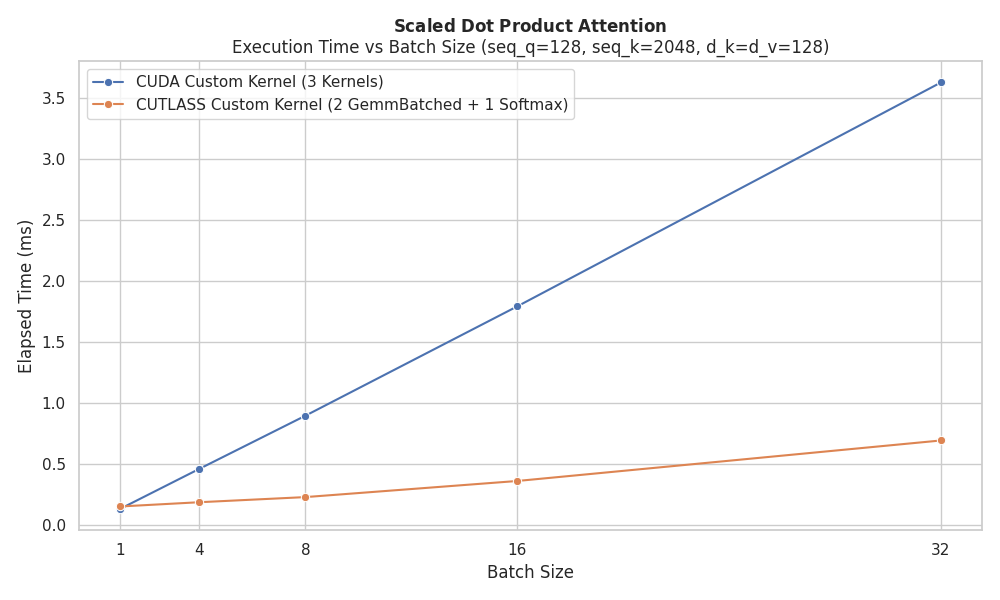
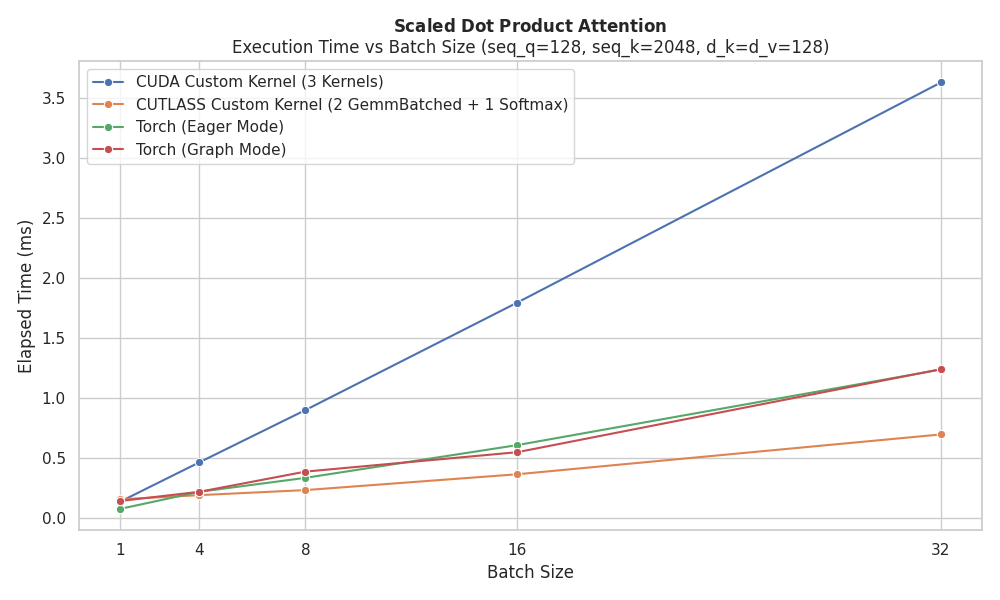
benchmark

diff --git a/src/tests/benchmarking.py b/src/tests/benchmarking.py
@@ -2,13 +2,15 @@ import seaborn as sns
 import matplotlib.pyplot as plt
 import pandas as pd
 
-'''
-# 建立資料
+
+'''# 建立資料
 data = {
-    'batch': [1, 4, 8, 16, 32] * 2,
+    'batch': [1, 4, 8, 16, 32] * 4,
     'time_ms': [0.133, 0.462, 0.897, 1.793, 3.628, 
-                0.153, 0.188, 0.23, 0.362, 0.694],
-    'method': ['CUDA Custom Kernel (3 Kernels)'] * 5 + ['CUTLASS Custom Kernel (2 GemmBatched + 1 Softmax)'] * 5
+                0.153, 0.188, 0.23, 0.362, 0.694,
+                0.073, 0.216, 0.332, 0.605, 1.235,
+                0.139, 0.216, 0.384, 0.546, 1.238],
+    'method': ['CUDA Custom Kernel (3 Kernels)'] * 5 + ['CUTLASS Custom Kernel (2 GemmBatched + 1 Softmax)'] * 5 + ['Torch (Eager Mode)'] * 5 + ['Torch (Graph Mode)'] * 5
 }
 
 df = pd.DataFrame(data)
@@ -29,13 +31,15 @@ plt.legend(title=None)
 
 plt.show()'''
 
-# 建立資料
+'''# 建立資料
 seq_shapes = ['64x512', '128x1024', '128x2048', '256x4096', '512x8192']
 data = {
-    'seq_shape': seq_shapes * 2,
+    'seq_shape': seq_shapes * 4,
     'time_ms': [0.127, 0.462, 0.897, 3.456, 12.621,
-                0.071, 0.128, 0.23, 0.604, 2.048],
-    'method': ['CUDA Custom Kernel (3 Kernels)'] * 5 + ['CUTLASS Custom Kernel (2 GemmBatched + 1 Softmax)'] * 5
+                0.071, 0.128, 0.23, 0.604, 2.048,
+                0.078, 0.151, 0.358, 0.976, 3.797,
+                0.115, 0.160, 0.366, 0.98, 3.812],
+    'method': ['CUDA Custom Kernel (3 Kernels)'] * 5 + ['CUTLASS Custom Kernel (2 GemmBatched + 1 Softmax)'] * 5 + ['Torch (Eager Mode)'] * 5 + ['Torch (Graph Mode)'] * 5
 }
 
 df = pd.DataFrame(data)
@@ -53,4 +57,37 @@ plt.yscale('linear')  # 或 'log' 看變化曲線也不錯
 plt.legend(title=None)
 plt.tight_layout()
 
+plt.show()'''
+
+batch_sizes = ['1', '2', '4', '8', '16', '32', '64']
+
+data = {
+    'batch_size': batch_sizes * 4,
+    'time_ms': [
+        5.519, 10.942, 19.776, 39.598, 79.505, 159.298, 320.349,   # CUDA custom
+        0.0066, 0.00828, 0.01034, 0.01669, 0.0282, 0.05198, 0.148, # CUTLASS
+        0.120, 0.120, 0.118, 0.120, 0.231, 0.788, 1.653,            # Torch Eager
+        0.090, 0.090, 0.089, 0.089, 0.197, 0.604, 1.541             # Torch Compile
+    ],
+    'method': (
+        ['CUDA Custom Kernel (Per Block Process a Q)'] * 7 +
+        ['CUTLASS Kernel'] * 7 +
+        ['Torch (Eager Mode)'] * 7 +
+        ['Torch (Compile Mode)'] * 7
+    )
+}
+
+df = pd.DataFrame(data)
+
+# 畫圖
+sns.set(style='whitegrid')
+plt.figure(figsize=(10, 6))
+sns.lineplot(data=df, x='batch_size', y='time_ms', hue='method', marker='o')
+
+plt.title(r'$\mathbf{Fused\ Multi\ Head\ Attention}$' + '\nExecution Time vs Batch Size (H=8, S_q=S_k=128, D_head=64)')
+plt.xlabel('Batch Size')
+plt.ylabel('Elapsed Time (ms)')
+plt.yscale('log')  # 用 log scale 更容易看出差距
+plt.legend(title=None)
+plt.tight_layout()
 plt.show()

diff --git a/src/tests/tmp.py b/src/tests/tmp.py
@@ -1,0 +1,66 @@
+import torch
+import torch.nn.functional as F
+import time
+
+def prepare_data(batch, seq_len_q, seq_len_k, d_k=128, d_v=128):
+    h_Q = torch.zeros((batch, seq_len_q, d_k), dtype=torch.float32, device='cuda')
+    h_K = torch.zeros((batch, seq_len_k, d_k), dtype=torch.float32, device='cuda')
+    h_V = torch.zeros((batch, seq_len_k, d_v), dtype=torch.float32, device='cuda')
+
+    # 初始化資料
+    for i_b in range(batch):
+        for i in range(seq_len_q):
+            for j in range(d_k):
+                h_Q[i_b, i, j] = ((i * d_k + j) % 100) * 0.01 - 0.5
+
+        for i in range(seq_len_k):
+            for j in range(d_k):
+                h_K[i_b, i, j] = ((i * d_k + j) % 100) * 0.02 - 1.0
+
+        for i in range(seq_len_k):
+            for j in range(d_v):
+                h_V[i_b, i, j] = ((i * d_v + j) % 100) * 0.01
+
+    return h_Q, h_K, h_V
+
+
+def run_attention(Q, K, V):
+    return F.scaled_dot_product_attention(Q, K, V, attn_mask=None, is_causal=False)
+
+# 用 torch.compile 加速
+compiled_attention = torch.compile(run_attention)
+
+# Benchmark
+seq_q = [64, 128, 128, 256, 512]
+seq_k = [512, 1024, 2048, 4096, 8192]
+warmup = 3
+repeat = 10
+
+print(f"{'Batch':>6} | {'Eager Time (ms)':>15} | {'Compiled Time (ms)':>18}")
+print("-" * 45)
+
+for i in range(5):
+    Q, K, V = prepare_data(8, seq_q[i], seq_k[i])
+
+    # Warmup
+    for _ in range(warmup):
+        run_attention(Q, K, V)
+        compiled_attention(Q, K, V)
+
+    # Benchmark eager
+    torch.cuda.synchronize()
+    t0 = time.time()
+    for _ in range(repeat):
+        run_attention(Q, K, V)
+    torch.cuda.synchronize()
+    eager_time = (time.time() - t0) / repeat * 1000
+
+    # Benchmark compiled
+    torch.cuda.synchronize()
+    t0 = time.time()
+    for _ in range(repeat):
+        compiled_attention(Q, K, V)
+    torch.cuda.synchronize()
+    compiled_time = (time.time() - t0) / repeat * 1000
+
+    print(f"{seq_q[i]:6} | {seq_k[i]:6}| {eager_time:15.3f} | {compiled_time:18.3f}")

diff --git a/src/tests/benchmarking_fmha.py b/src/tests/benchmarking_fmha.py
@@ -1,0 +1,53 @@
+import torch
+import torch.nn.functional as F
+import time
+torch.set_float32_matmul_precision('high')
+
+torch.manual_seed(42)
+device = 'cuda'
+
+@torch.no_grad()
+def run_attention(Q, K, V):
+    return F.scaled_dot_product_attention(Q, K, V, dropout_p=0.0, is_causal=False)
+
+@torch.no_grad()
+def benchmark(name, func, warmup=10, repeat=100):
+    # Warm-up
+    for _ in range(warmup):
+        func()
+
+    torch.cuda.synchronize()
+    start = time.time()
+    for _ in range(repeat):
+        func()
+    torch.cuda.synchronize()
+    end = time.time()
+
+    avg_ms = (end - start) * 1000 / repeat
+    print(f"{name:<20} | Avg Time: {avg_ms:.3f} ms")
+
+def create_inputs(B, H, S_q, S_k, D_head):
+    Q = torch.randn(B * H, S_q, D_head, device=device)
+    K = torch.randn(B * H, S_k, D_head, device=device)
+    V = torch.randn(B * H, S_k, D_head, device=device)
+    return Q, K, V
+
+def main():
+    H = 8
+    S_q = S_k = 128
+    D_head = 64
+
+    batch_sizes = [1, 2, 4, 8, 16, 32, 64]
+    for B in batch_sizes:
+        print(f"\n=== B={B}, H={H}, S_q=S_k={S_q}, D_head={D_head} ===")
+        Q, K, V = create_inputs(B, H, S_q, S_k, D_head)
+
+        # Eager
+        benchmark("Eager", lambda: run_attention(Q, K, V))
+
+        # Graph (compile with mode='max-autotune')
+        compiled_fn = torch.compile(run_attention, mode='max-autotune', fullgraph=True)
+        benchmark("Torch Compile", lambda: compiled_fn(Q, K, V))
+
+if __name__ == "__main__":
+    main()

diff --git a/src/tests/test_layers.py b/src/tests/test_layers.py
@@ -7,7 +7,7 @@ import sys
 from my_layers.RMSNorm import RMSNorm
 
 sys.path.append("../")
-import cuFMHA
+#import cuFMHA
                 
 def test_rmsnorm():
     N = 128*128
@@ -168,7 +168,7 @@ def test_scaled_dot_product_attention():
 def test_cu_fmha_kernel_multihead():
     import math
 
-    B, H, S_q, S_k, D_head = 10, 5, 32, 32, 16
+    B, H, S_q, S_k, D_head = 10, 5, 128, 128, 64
 
     # Q[b,h,q,d] = b + h + 1 + 0.01*d
     Q = torch.zeros(B, H, S_q, D_head)
@@ -208,7 +208,7 @@ def test_cu_fmha_kernel_multihead():
 
     torch.testing.assert_close(O, cuda_out, rtol=1e-5, atol=1e-6)
 
-def test_gemm_pybind():
+'''def test_gemm_pybind():
     # 模擬輸入參數
     batch = 2
     seq_len_q = 512
@@ -228,4 +228,4 @@ def test_gemm_pybind():
     # PyTorch 參考計算
     out_torch = torch.bmm(Q, K)
 
-    torch.testing.assert_close(out_cuda, out_torch, rtol=1e-5, atol=1e-6)
+    torch.testing.assert_close(out_cuda, out_torch, rtol=1e-5, atol=1e-6)'''
